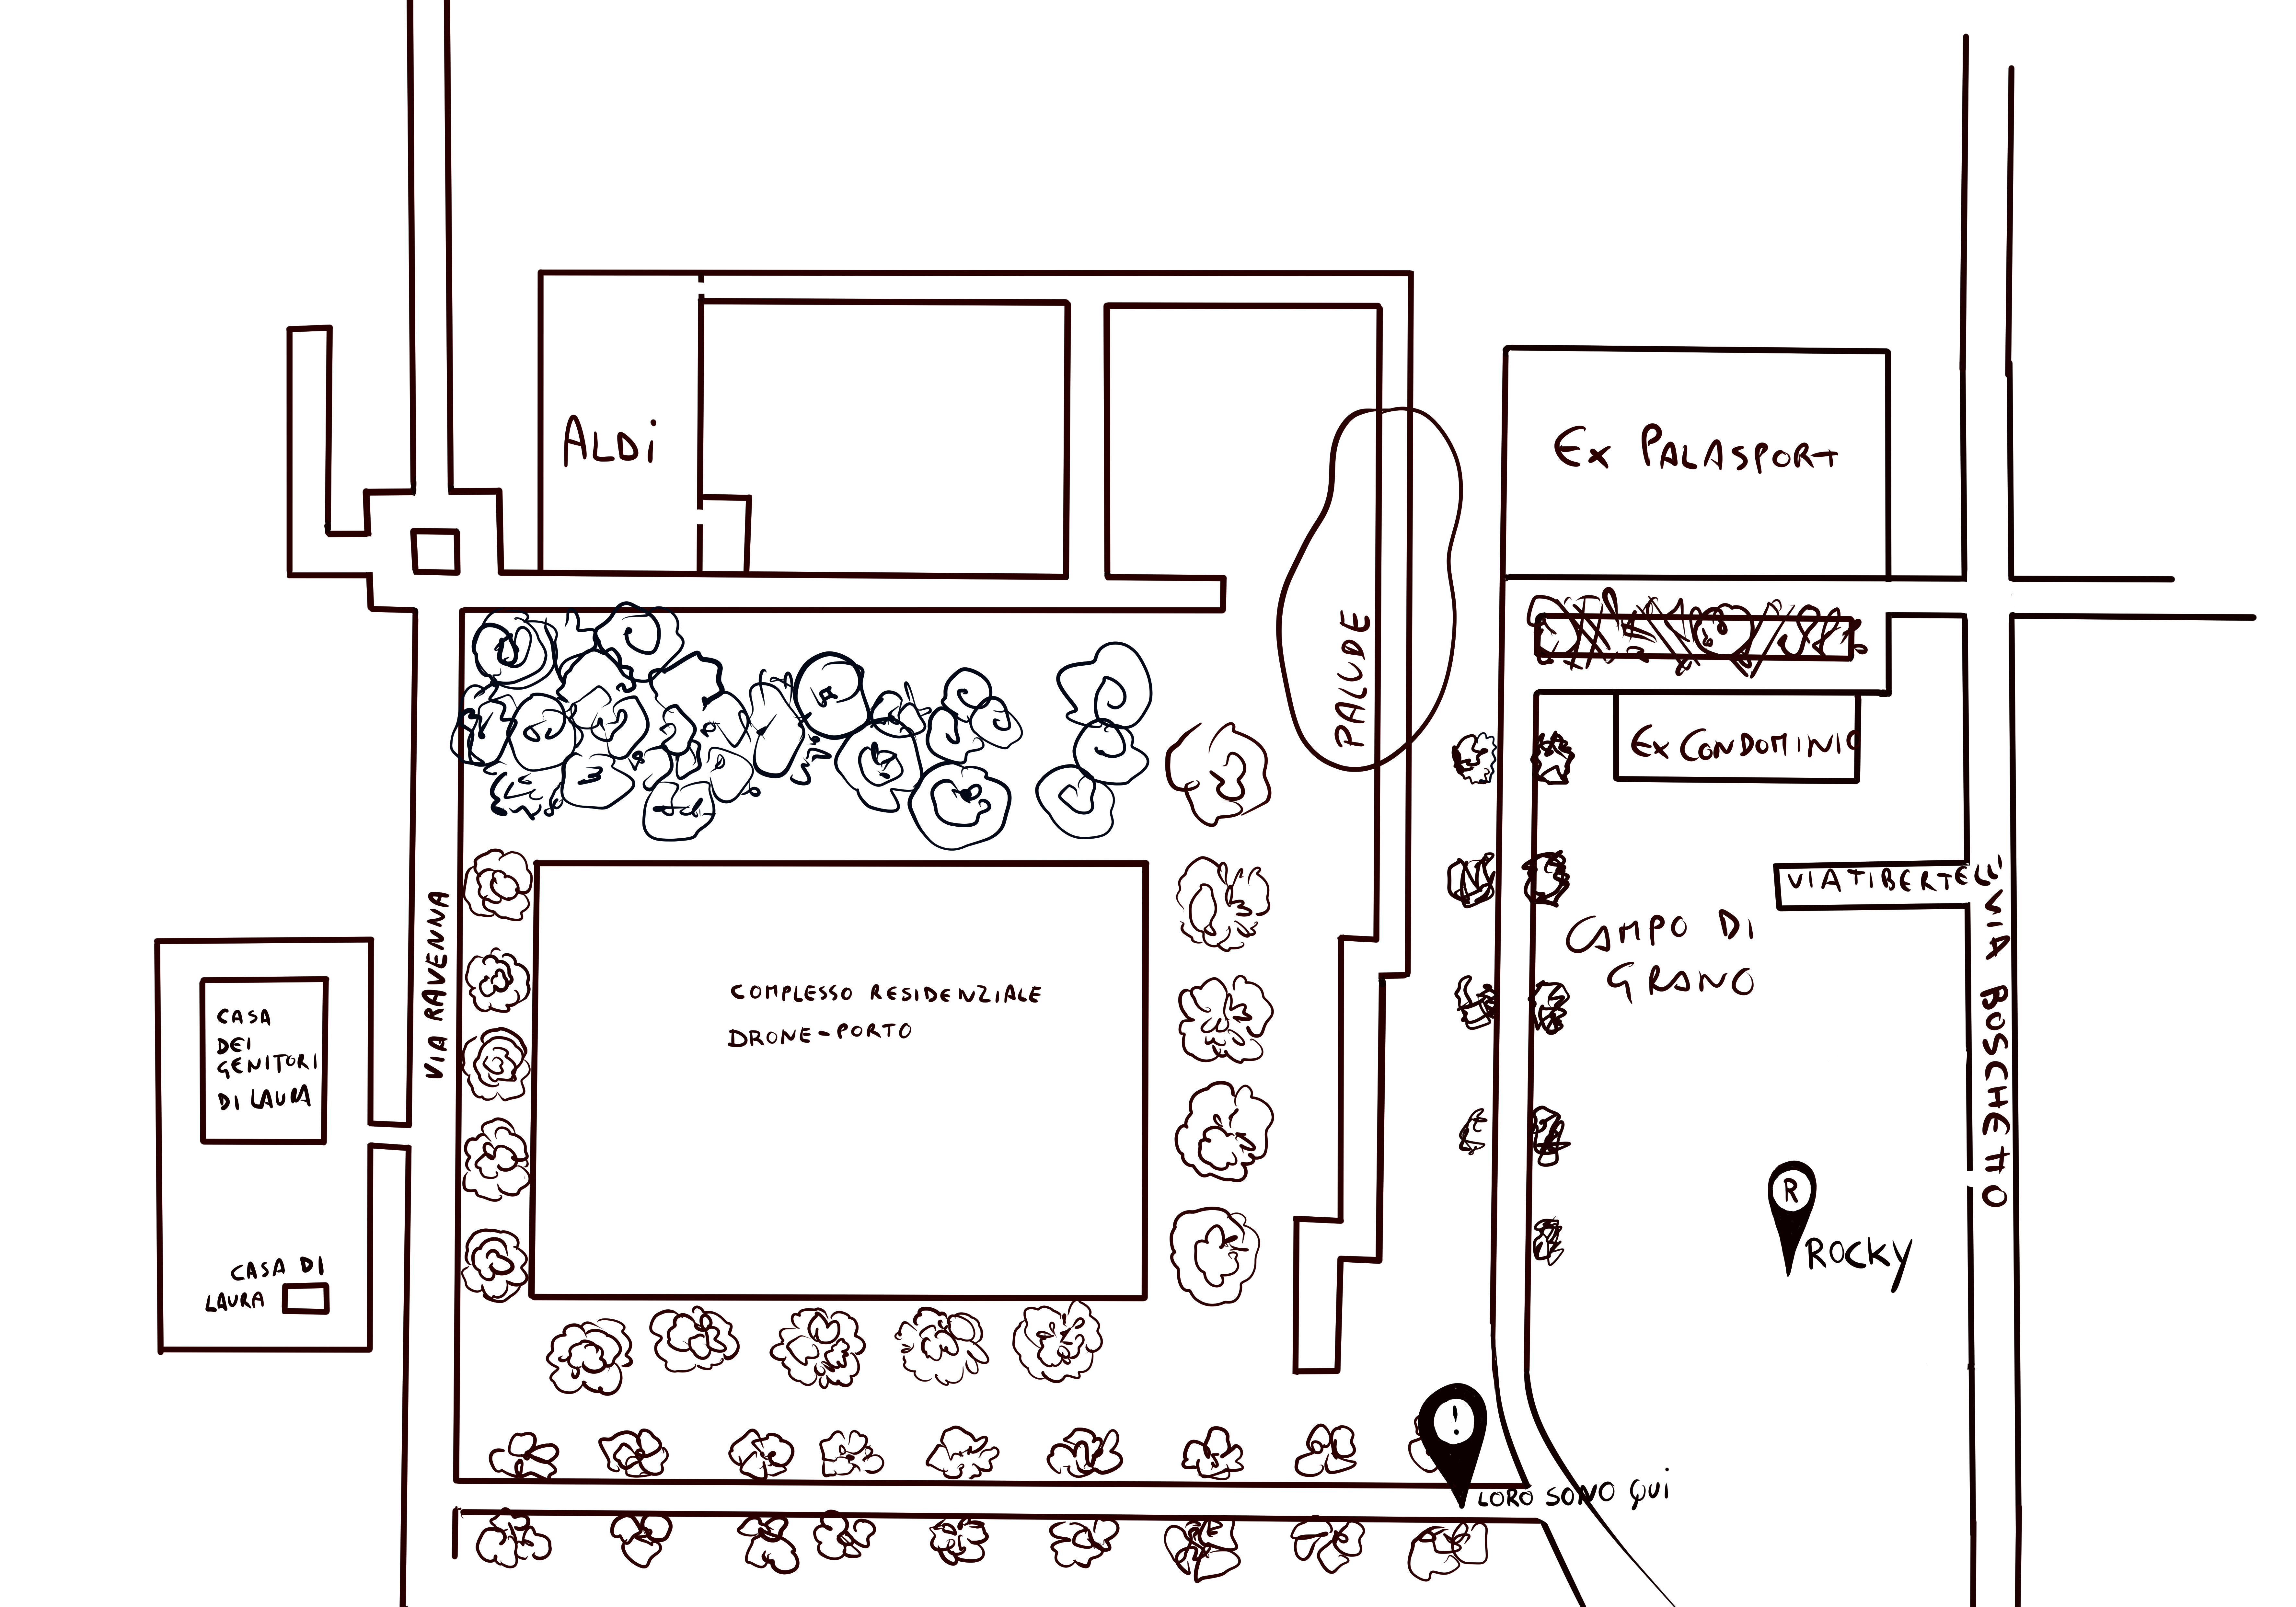
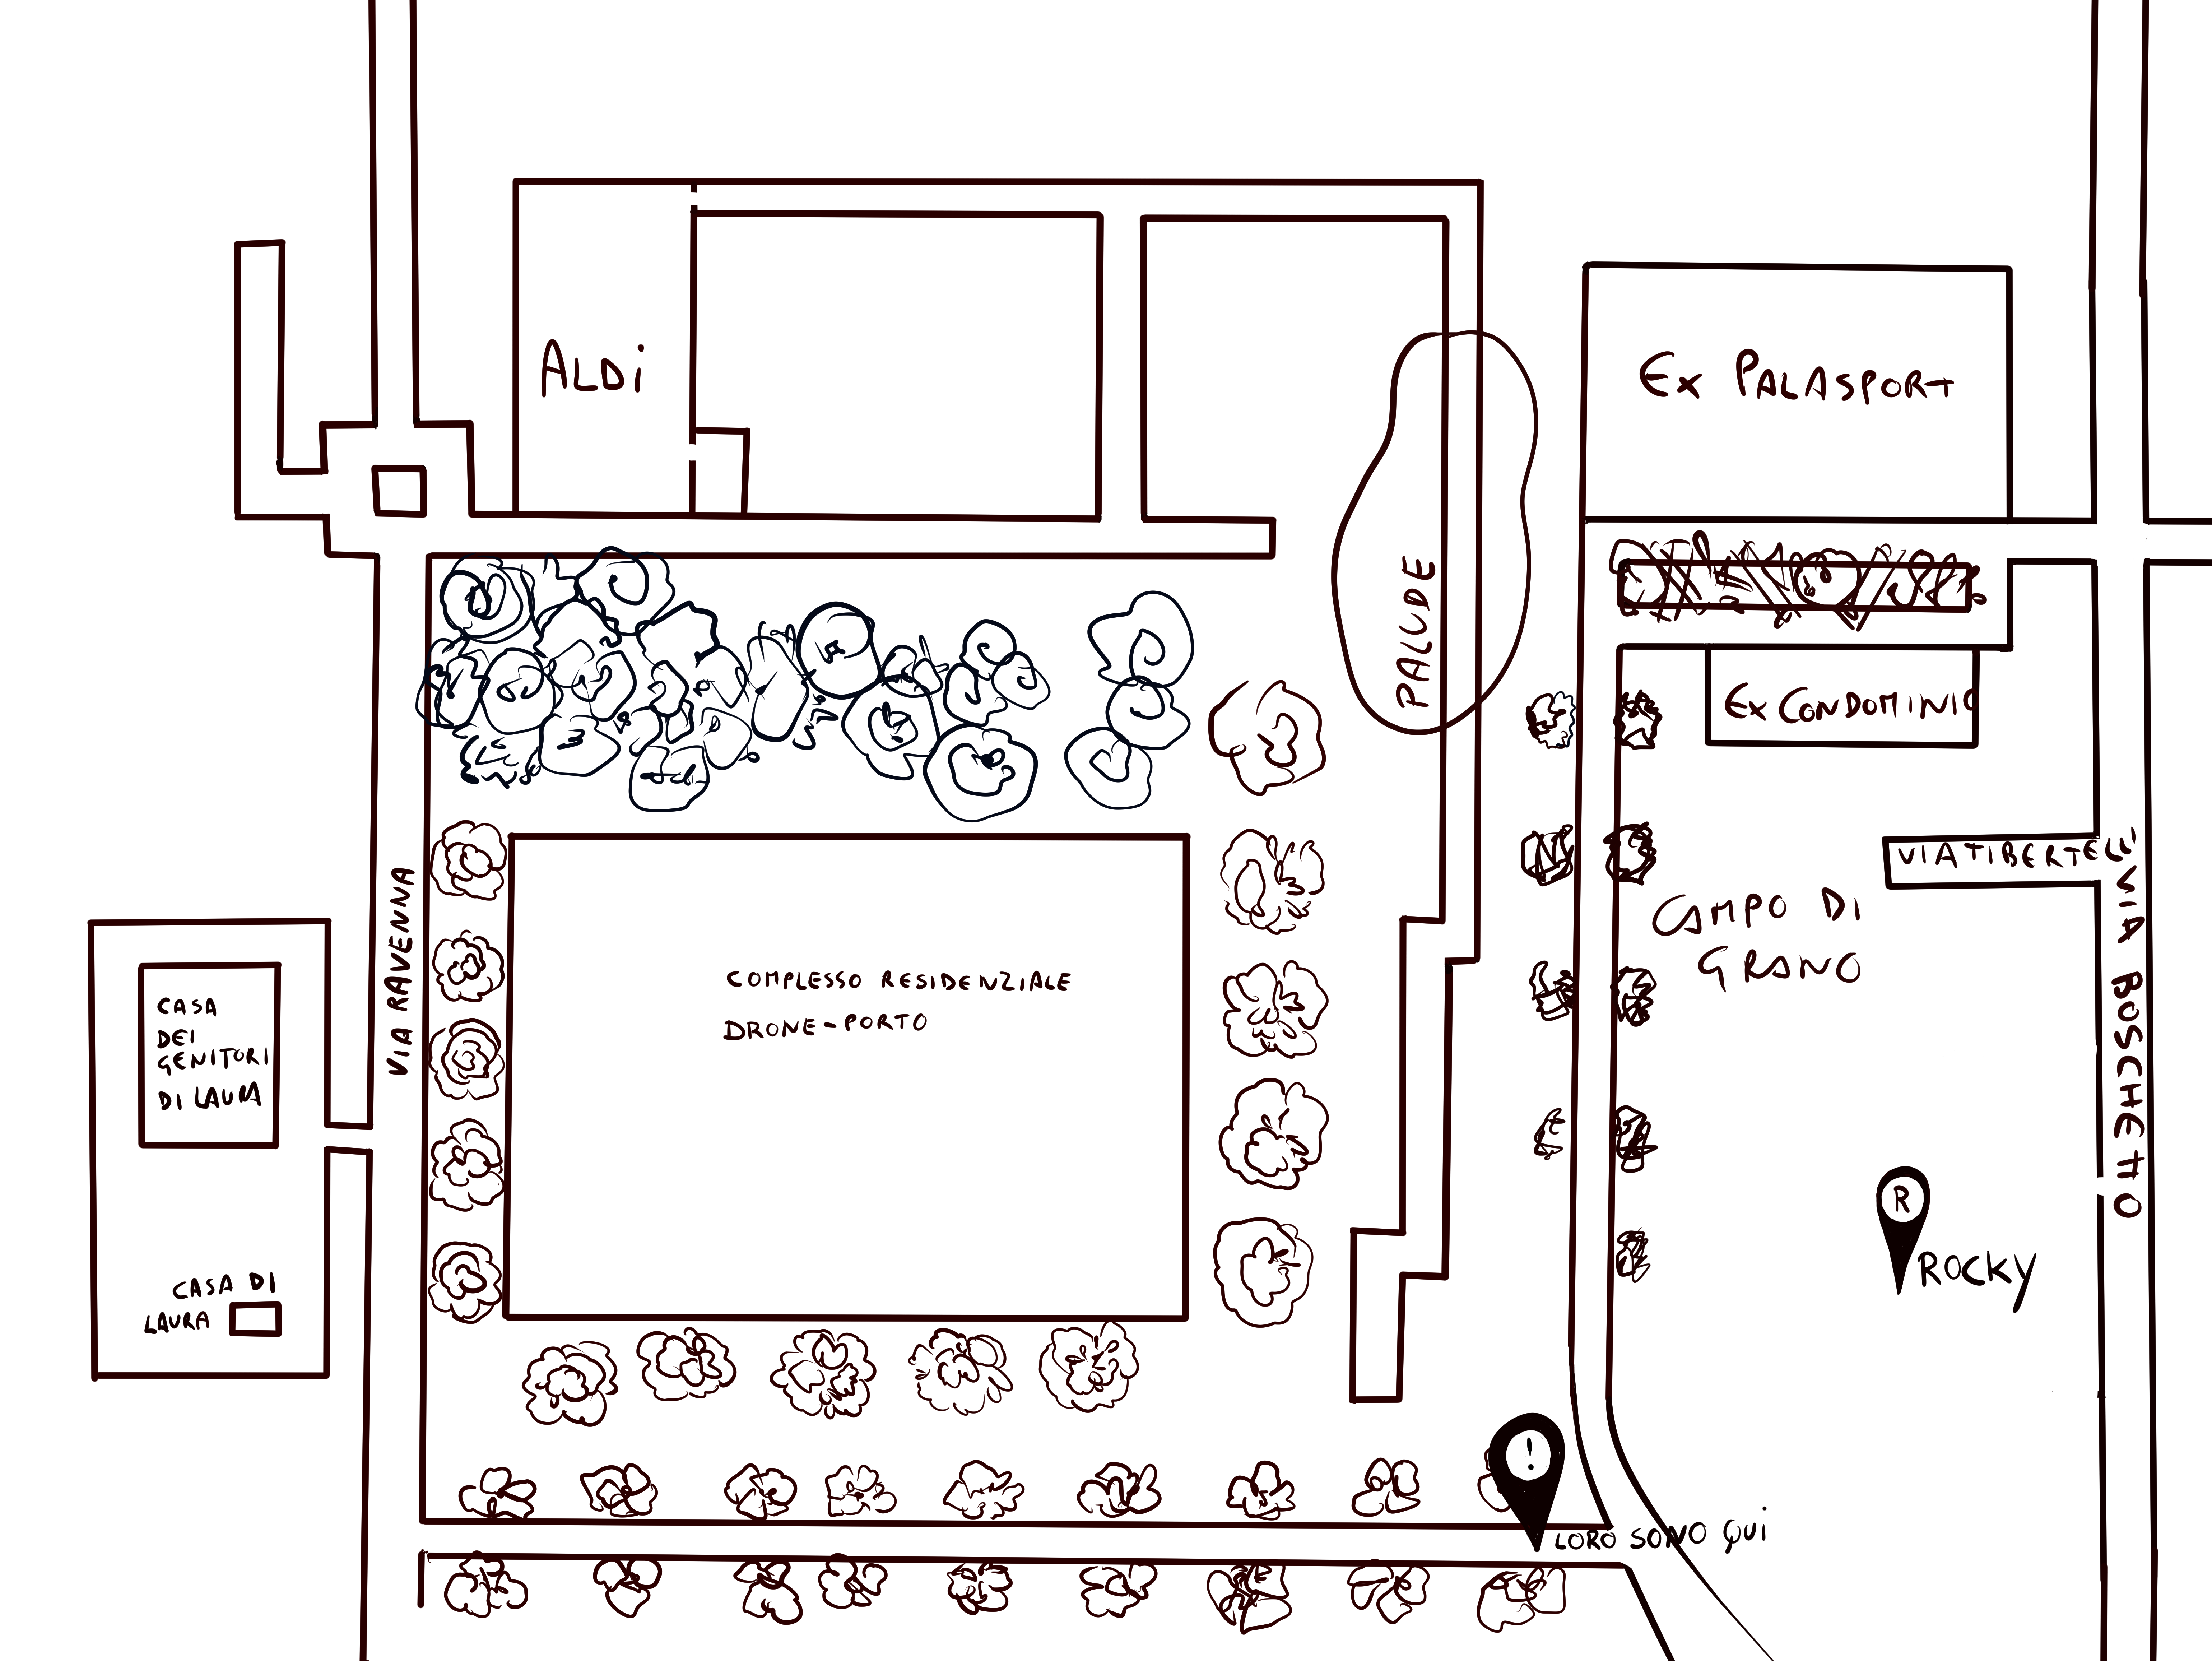
as

diff --git a/manuscript/cnot1.7/latex_version/main_cnot17.tex b/manuscript/cnot1.7/latex_version/main_cnot17.tex
@@ -2,7 +2,7 @@
 % Cnot 1.7 — main.tex
 %========================================
 %\documentclass[14pt,oneside,a4paper]{book}
-\documentclass[14pt,a4paper]{extbook} % oppure 17pt, 20pt
+\documentclass[17pt,a4paper]{extbook} % oppure 17pt, 20pt
 
 % ---------- Encoding & lingua ----------
 \usepackage[T1]{fontenc}
@@ -110,26 +110,27 @@
 % Corpo del libro
 %========================================
 \mainmatter
+\include{chapters/proemio}
 % --- prologo ---
 \include{chapters/prologo}
 % --- 17 capitoli ---
-\include{chapters/chapter01}
-\include{chapters/chapter02}
-\include{chapters/chapter03}
-\include{chapters/chapter04}
-\include{chapters/chapter05}
-\include{chapters/chapter06}
-\include{chapters/chapter07}
+%\include{chapters/chapter01}
+%\include{chapters/chapter02}
+%\include{chapters/chapter03}
+%\include{chapters/chapter04}
+%\include{chapters/chapter05}
+%\include{chapters/chapter06}
+%\include{chapters/chapter07}
 \include{chapters/chapter08}
-\include{chapters/chapter09}
-\include{chapters/chapter10}
-\include{chapters/chapter11}
-\include{chapters/chapter12}
-\include{chapters/chapter13}
-\include{chapters/chapter14}
-\include{chapters/chapter15}
-\include{chapters/chapter16}
-\include{chapters/chapter17}
+%\include{chapters/chapter09}
+%\include{chapters/chapter10}
+%\include{chapters/chapter11}
+%\include{chapters/chapter12}
+%\include{chapters/chapter13}
+%\include{chapters/chapter14}
+%\include{chapters/chapter15}
+%\include{chapters/chapter16}
+%\include{chapters/chapter17}
 % --- epilogo ---
 \include{chapters/epilogo}
 %========================================

diff --git a/manuscript/cnot1.7/latex_version/q.tex b/manuscript/cnot1.7/latex_version/q.tex
@@ -1,0 +1,26 @@
+\relax 
+\providecommand\hyper@newdestlabel[2]{}
+\@setckpt{chapter/proemio}{
+\setcounter{page}{1}
+\setcounter{equation}{0}
+\setcounter{enumi}{3}
+\setcounter{enumii}{0}
+\setcounter{enumiii}{0}
+\setcounter{enumiv}{0}
+\setcounter{footnote}{0}
+\setcounter{mpfootnote}{0}
+\setcounter{part}{0}
+\setcounter{chapter}{0}
+\setcounter{section}{0}
+\setcounter{subsection}{0}
+\setcounter{subsubsection}{0}
+\setcounter{paragraph}{0}
+\setcounter{subparagraph}{0}
+\setcounter{figure}{0}
+\setcounter{table}{0}
+\setcounter{float@type}{4}
+\setcounter{Item}{3}
+\setcounter{Hfootnote}{0}
+\setcounter{bookmark@seq@number}{0}
+\setcounter{section@level}{0}
+}

diff --git a/manuscript/cnot1.7/latex_version/chapters/proemio.tex b/manuscript/cnot1.7/latex_version/chapters/proemio.tex
@@ -1,0 +1,21 @@
+\clearpage
+\thispagestyle{empty}
+\pagecolor{black}
+\color{white}
+
+\vspace*{\fill}
+
+\begin{center}
+\Large
+Siamo a metà del ventunesimo secolo.\\[1em]
+L’Europa è scivolata in una guerra invisibile e sottile.\\[1em]
+I danni all’ambiente sono incalcolabili.\\[1em]
+Eppure la vita di tutti i giorni continua,\\
+quasi immodificata.
+\end{center}
+
+\vspace*{\fill}
+
+\clearpage
+\nopagecolor
+\color{black}

diff --git a/manuscript/cnot1.7/latex_version/chapters/chapter01.tex b/manuscript/cnot1.7/latex_version/chapters/chapter01.tex
@@ -11,7 +11,7 @@ Laura è seduta sulla poltroncina degli ospiti, sta aiutando l’amica a sbrigar
 
 \par\medskip
 \begin{center}
-  \includegraphics[width=.55\linewidth]{image1.png}
+  \includegraphics[width=.75\linewidth]{image1.png}
 \end{center}
 
 \begin{verse}\itshape
@@ -24,15 +24,12 @@ tu che hai il coraggio che io non ho…»
 \end{verse}
 
 «Vuoi che continui, Cate? Non mi sembra aggiunga nulla di nuovo alla discussione…»
-
 «Ma sì dai, mi sembra così angosciata, poverina…»
-
 \par\medskip
 Caterina è a pochi decimetri da Laura, davanti all’armadio.
-
 \par\medskip
 \begin{center}
-  \includegraphics[width=.6\linewidth]{image3.png}
+  \includegraphics[width=.75\linewidth]{image3.png}
 \end{center}
 
 Caterina è proprio lì davanti che sceglie i vestiti da mettere in valigia.
@@ -58,7 +55,7 @@ Dalla camera di una ragazza si può capire molto di lei:
 
 \par\medskip
 \begin{center}
-  \includegraphics[width=.6\linewidth]{image2.png}
+  \includegraphics[width=.75\linewidth]{image2.png}
 \end{center}
 
 Eccola qui.  
@@ -119,7 +116,7 @@ Questa è la scena prima della crisi…
 
 \par\medskip
 \begin{center}
-  \includegraphics[width=.6\linewidth]{ccsf.png}
+  \includegraphics[width=.75\linewidth]{ccsf.png}
 \end{center}
 
 \textbf{Verse 2}

diff --git a/manuscript/cnot1.7/latex_version/chapters/chapter07.tex b/manuscript/cnot1.7/latex_version/chapters/chapter07.tex
@@ -33,27 +33,21 @@ I problemi si risolvono creando ordine: Laura sistema il suo zaino tattico perch
 
 \par\medskip
 Alice la osserva ammirata: Laura nella sua tuta nera.
-
 \par\medskip
 «Sembri Tomb Rider! Ma cosa c’è nello zaino?»\\
 «Niente, amore, ho preso i suoi croccantini per chiamare Rocky.»
-
 \par\medskip
 Non mente, ci sono anche i croccantini.
-
 \par\medskip
 «Dovrebbe essere qui vicino. Farò presto.»\\
 «Laura, posso venire con te? Può restare Alice con Vale?»\\
 «In effetti…»\\
 «Sì, ci penso io.»
-
 \par\medskip
 Caterina indossa una minigonna, una camicetta e un paio di scarpette con un po’ di tacco.  
 Ha un abbigliamento perfetto per quello che le attende.
-
 \par\medskip
 «Ok, mi raccomando, Alice.»
-
 \par\medskip
 Alice non risponde. Sorride, entra in casa e le guarda dalla vetrata.
 
@@ -69,7 +63,7 @@ Il sensore indica che Rocky si trova davanti a loro a circa ottanta metri, non a
 
 \par\medskip
 \begin{center}
-  \includegraphics[width=0.78\linewidth]{piantina rocky senza sfondo.png}
+  \includegraphics[width=1\linewidth]{piantina rocky senza sfondo.png}
 \end{center}
 
 \par\medskip

diff --git a/manuscript/cnot1.7/latex_version/chapters/chapter08.tex b/manuscript/cnot1.7/latex_version/chapters/chapter08.tex
@@ -23,12 +23,12 @@ Il trenino esce dalla seconda porta e prende le scale. Come vedi qui sotto le du
 
 \par\medskip
 \begin{center}
-  \includegraphics[width=0.55\linewidth]{piano 1.png}
+  \includegraphics[width=1\linewidth]{piano 1.png}
 \end{center}
 
 \par\medskip
 \begin{center}
-  \includegraphics[width=0.55\linewidth]{piano 2.png}
+  \includegraphics[width=1\linewidth]{piano 2.png}
 \end{center}
 
 \par\medskip
@@ -51,7 +51,7 @@ Un’altra rampa e raggiungono la Hall al piano terra.
 
 \par\medskip
 \begin{center}
-  \includegraphics[width=0.55\linewidth]{piano terra.png}
+  \includegraphics[width=1\linewidth]{piano terra.png}
 \end{center}
 
 \par\medskip

diff --git a/manuscript/cnot1.7/latex_version/chapters/prologo.tex b/manuscript/cnot1.7/latex_version/chapters/prologo.tex
@@ -14,7 +14,7 @@ Già, proprio come ha fatto Caterina con lei.
 
 \begin{figure}[H]
   \centering
-  \includegraphics[width=.35\linewidth]{diario alice senza sfondo.png}
+  \includegraphics[width=.70\linewidth]{diario alice senza sfondo.png}
   %\caption*{\footnotesize Le parole della canzone sul quaderno di Alice, con accordi per la chitarra.}
 \end{figure}
 
@@ -22,6 +22,6 @@ Questa qua sotto è Alice, quasi grande ma ancora adolescente; a vederla nel suo
 
 \begin{figure}[H]
   \centering
-  \includegraphics[width=.35\linewidth]{alice senza sfondo.png}
+  \includegraphics[width=.70\linewidth]{alice senza sfondo.png}
   %\caption*{\footnotesize Alice piange mentre suona la sua canzone.}
 \end{figure}

diff --git a/manuscript/cnot1.7/latex_version/chapters/chapter03.tex b/manuscript/cnot1.7/latex_version/chapters/chapter03.tex
@@ -25,7 +25,7 @@ Caterina raggiunge la pedana antistante la vetrata, ma non fa in tempo a entrare
 
 \par\medskip
 \begin{center}
-  \includegraphics[width=\linewidth]{soggiorno_prospettiva.png}%
+  \includegraphics[width=1\linewidth]{soggiorno_prospettiva.png}%
 \end{center}
 
 «Stai facendo i compiti?»\\

diff --git a/manuscript/cnot1.7/latex_version/chapters/chapter06.tex b/manuscript/cnot1.7/latex_version/chapters/chapter06.tex
@@ -12,7 +12,7 @@ Raggiunge il \textbf{MA-AI} per colpirlo, ma a quel punto i suoi movimenti si fa
 Osservandolo dall'esterno, sembra che stia pregando. Ha le mani chiuse, palmo contro palmo, e in mezzo c'è il bastone. Una contromossa ninja.
 \par\medskip
 \begin{center}
-  \includegraphics[width=0.6\linewidth]{media/ma ai senza sfondo.png}
+  \includegraphics[width=0.9\linewidth]{media/ma ai senza sfondo.png}
 \end{center}
 
 \par\medskip

diff --git a/manuscript/cnot1.7/latex_version/chapters/.#chapter1.tex b/manuscript/cnot1.7/latex_version/chapters/.#chapter1.tex
@@ -1,0 +1,1 @@
+francesco@francesco-Predator-G3-572.29884:1778434251